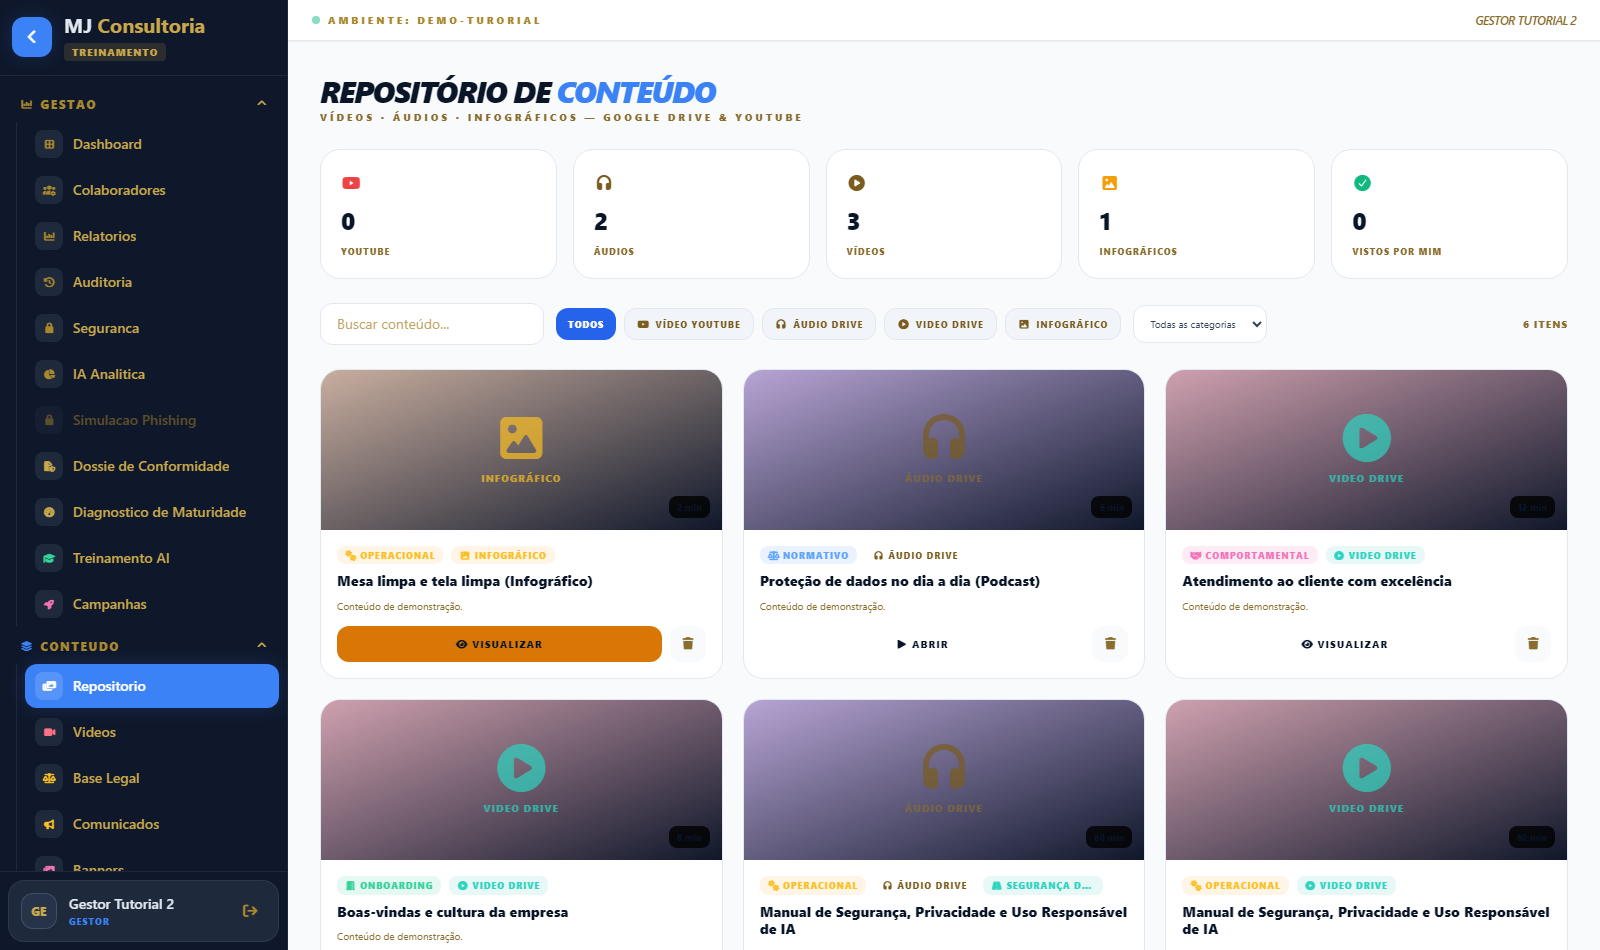
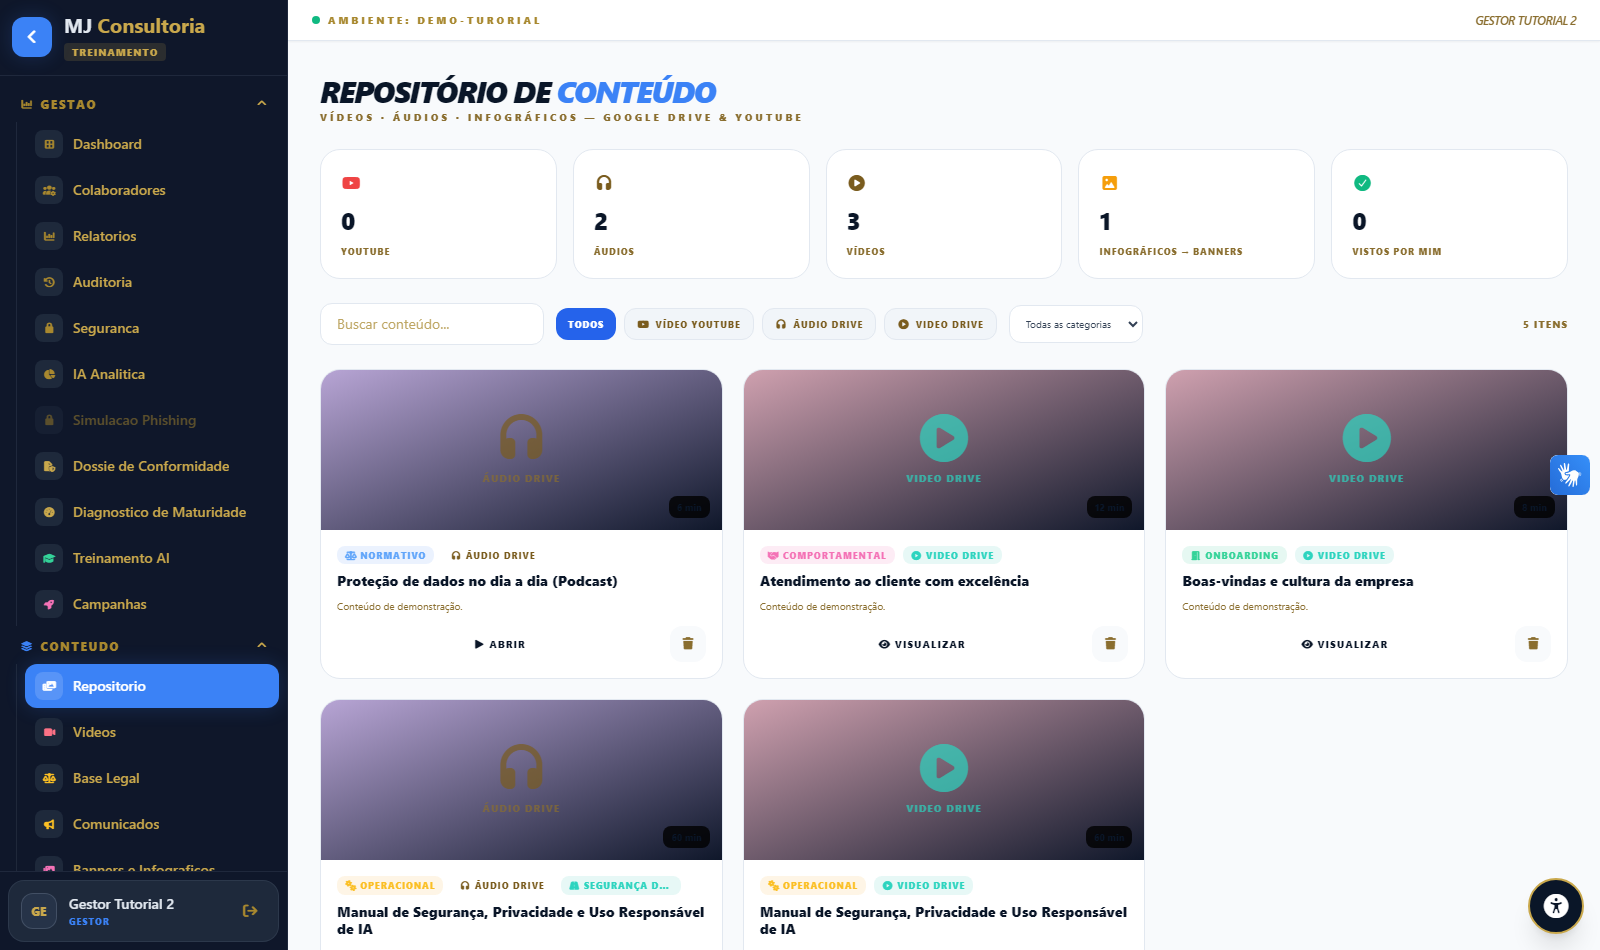
docs(tutorial): telas novas e textos atualizados
Capturas novas (cliente demo, dados ficticios): trilha em abas Ler/Ouvir/
Infografico, Repositorio sem infograficos, Banners e Infograficos, Campanhas
com publicacao, Meu Progresso e Acessibilidade. Textos de Trilhas,
Repositorio, Banners e Infograficos, Campanhas, Meu Progresso, Gestao de
Empresas (modo de visualizacao, Painel Master) e nova secao Acessibilidade.

diff --git a/frontend/src/features/Tutorial/TutorialView.tsx b/frontend/src/features/Tutorial/TutorialView.tsx
@@ -30,9 +30,11 @@ const SECTIONS: Section[] = [
     roles: ['SUPERADMIN'],
     steps: [
       { title: 'Ativar um novo cliente', desc: 'No formulário "Ativar Novo Cliente", escolha se é um cartório ou uma empresa, informe o nome e um ID do sistema (sem espaços, ex: empresa-bh-01). Esse ID vira o tenantId de todos os colaboradores daquele cliente e não pode ser alterado depois.' },
-      { title: 'Habilitar ou desligar módulos por cliente', desc: 'Em cada cliente listado em "Instâncias Ativas", clique nos chips de módulo (Auditoria, Segurança, IA Analítica, Phishing, Dossiê, Diagnóstico, Backup) para ligar/desligar. Quando desligado, o item aparece travado (cadeado) no menu daquele cliente.' },
+      { title: 'Habilitar ou desligar módulos por cliente', desc: 'Em cada cliente listado em "Instâncias Ativas", clique nos chips de módulo (Auditoria, Segurança, IA Analítica, Phishing, Dossiê, Diagnóstico, Backup, Acessibilidade) para ligar/desligar. Quando desligado, o item aparece travado (cadeado) no menu daquele cliente.' },
       { title: 'Ativar um período de demonstração', desc: 'Clique em "Ativar Demonstração", defina a quantidade de dias e confirme. Durante a demonstração só a Capacitação (Trilhas/Exames/Treinamentos) fica liberada — os demais módulos ficam travados até você "Encerrar Demonstração" (vira cliente pleno) ou o prazo expirar, quando o cliente é suspenso automaticamente e um e-mail é enviado ao gestor sugerindo a compra.' },
       { title: 'Acessar um cliente para conferir o que ele vê', desc: 'Clique em "Acessar" ao lado do cliente. Você entra no ambiente exatamente como aquele cliente enxerga — inclusive módulos travados — para validar a configuração. Use "Sair do cliente" no menu lateral para voltar ao modo global.' },
+      { title: 'Modo de visualização (apresentações)', desc: 'Dentro de um cliente, a equipe MJ vê trilhas, vídeos, áudios e infográficos exatamente como o colaborador vê, sem gravar nada: leitura, quiz e progresso não entram nos relatórios nem nos rankings do cliente. Nesse modo nenhum nome de outro cliente aparece na tela — o conteúdo criado ali fica só para o cliente visualizado; para distribuir a outros clientes, saia do modo de visualização.' },
+      { title: 'Painel Master', desc: 'A tela inicial do Super Admin reúne o acesso a qualquer cliente (lista de seleção, sem expor nomes na tela), atalhos para Gestão de Empresas, Treinamentos Oficiais, Relatório por Empresa e Atividades Master e uma apresentação da plataforma que pode ser mostrada a prospects.' },
       { title: 'Publicar treinamentos oficiais prontos', desc: 'Em "Treinamentos Oficiais" (menu Sistema Master), vincule um vídeo já cadastrado a cada tema pronto (Provimento 213/2026, Compliance, Provimento 149, LGPD) e clique em "Criar Trilha Oficial" — a trilha é publicada automaticamente para todos os clientes, com quiz gerado por IA.' },
       { title: 'Montar a equipe interna da MJ Consultoria', desc: 'Em "Equipe de Curadoria de Conteúdo" (nesta mesma tela), cadastre pessoas que só vão inserir/distribuir conteúdo (perfil Curador). Para alguém que vai te ajudar de forma mais ampla — colaboradores, relatórios, auditoria de qualquer cliente —, cadastre em "Colaboradores" escolhendo o perfil "Equipe MJ" (não pede cliente).' },
     ]
@@ -128,12 +130,13 @@ const SECTIONS: Section[] = [
     id: 'trails', icon: 'fa-road', title: 'Trilhas', subtitle: 'Trilhas de aprendizagem por perfil', image: '/tutorial/trails.png',
     steps: [
       { title: 'O que são Trilhas?', desc: 'Trilhas são sequências de conteúdos organizados por assunto e por perfil (ex.: atendimento, administrativo, financeiro, liderança) — servem para empresas de qualquer segmento e também para cartórios. Cada trilha guia o colaborador do básico ao avançado.' },
-      { title: 'Navegando em uma trilha', desc: 'Selecione uma trilha para ver os módulos disponíveis. Complete os módulos em sequência para liberar o próximo nível.' },
+      { title: 'Navegando em uma trilha', desc: 'Clique em "Iniciar" ou "Continuar trilha". A trilha abre em tela de curso: lista de módulos na lateral (com o que já foi concluído), barra de andamento no topo e botões Anterior/Próximo no fim de cada módulo. No celular, os módulos aparecem numa lista de seleção.' },
+      { title: 'Escolha como estudar: ler, ouvir, assistir ou infográfico', desc: 'Cada módulo mostra os formatos disponíveis para o tema — Ler (texto organizado em seções e listas), Ouvir (podcast), Assistir (vídeo) e Infográfico. O colaborador escolhe o que prefere, e a escolha vale para os próximos módulos. Vídeos e infográficos têm o botão "Tela cheia".' },
       { title: 'Progresso', desc: 'O progresso de cada trilha é salvo automaticamente. Acompanhe o avanço em "Meu Progresso" no menu CAPACITAÇÃO.' },
       { title: 'Trilhas modelo MJ Consultoria', desc: 'SUPERADMIN pode marcar uma trilha como "modelo oficial MJ Consultoria" (badge dourado) e distribuí-la para todos os clientes ou para uma lista específica.' },
       { title: 'Conteúdo liberado pela MJ Consultoria', desc: 'A equipe MJ Consultoria define, cliente a cliente, quais trilhas e materiais ficam disponíveis. Só aparece para a sua organização o que já foi liberado para ela — conteúdos exclusivos de outros clientes nunca são exibidos.' },
       { title: 'Assunto e setores', desc: 'Cada trilha tem um assunto (ex.: Segurança da Informação, LGPD e Privacidade, Ética e Conduta, Integração de Novos Colaboradores) — em "Minhas Trilhas" elas aparecem agrupadas por assunto. Opcionalmente, marque setores: a trilha passa a aparecer só para colaboradores desses setores.' },
-      { title: 'Vídeo, podcast e material de apoio', desc: 'Um módulo pode trazer vídeo ou podcast e, logo abaixo, um material de apoio (como um infográfico do mesmo tema). Ao final de cada módulo há uma avaliação de 7 questões geradas a partir do conteúdo.' },
+      { title: 'Montando os formatos de um módulo', desc: 'Ao criar ou editar a trilha, vincule a mídia principal do módulo e, em "Outros formatos do mesmo tema", adicione o podcast, o vídeo ou o infográfico correspondente do Repositório. Ao final de cada módulo há uma avaliação de 7 questões geradas a partir do conteúdo.' },
       { title: 'Instrutor, forma e carga horária', desc: 'Ao criar ou editar uma trilha, preencha o instrutor responsável, a forma de treinamento (EAD, presencial ou híbrida) e a carga horária em horas — esses dados alimentam o Resumo de Treinamentos e a carga horária por colaborador em Relatórios.' },
       { title: 'Fonte de conteúdo para Exames', desc: 'O texto dos módulos de cada trilha também é usado como fonte de conteúdo na tela de Exames — não é preciso duplicar o material lá.' },
       { title: 'Visibilidade', desc: 'Toda trilha pode ser publicada para "este cliente", "todos os clientes" ou uma lista de "clientes específicos" escolhida pelo SUPERADMIN.' },
@@ -148,11 +151,11 @@ const SECTIONS: Section[] = [
     ]
   },
   {
-    id: 'repositorio', icon: 'fa-photo-film', title: 'Repositório', subtitle: 'Vídeos, podcasts e infográficos de capacitação', image: '/tutorial/repositorio.png',
+    id: 'repositorio', icon: 'fa-photo-film', title: 'Repositório', subtitle: 'Vídeos e podcasts de capacitação', image: '/tutorial/repositorio.png',
     steps: [
-      { title: 'Tipos de conteúdo', desc: 'O repositório centraliza os materiais de capacitação da sua organização: vídeos, podcasts (áudios) e infográficos, organizados por categoria (Onboarding, Normativo, Técnico, Operacional, Comportamental).' },
-      { title: 'Reprodução protegida', desc: 'Os materiais abrem no player da própria plataforma, sem expor o link do arquivo e sem botão de download.' },
-      { title: 'Buscando conteúdo', desc: 'Use a busca e os filtros por tipo (vídeo, áudio, infográfico) e por categoria para localizar materiais.' },
+      { title: 'Tipos de conteúdo', desc: 'O repositório centraliza os vídeos e podcasts (áudios) de capacitação da sua organização, organizados por categoria (Onboarding, Normativo, Técnico, Operacional, Comportamental). Os infográficos ficam em "Banners e Infográficos" — o cartão de contagem leva direto para lá.' },
+      { title: 'Reprodução protegida', desc: 'Os materiais abrem no player da própria plataforma, sem expor o link do arquivo e sem botão de download. Os áudios tocam pelo servidor da plataforma, só para quem está logado e tem o conteúdo liberado.' },
+      { title: 'Buscando conteúdo', desc: 'Use a busca e os filtros por tipo (vídeo, áudio) e por categoria para localizar materiais.' },
       { title: 'Conclusão conta para a prova', desc: 'Um conteúdo só conta como visto quando fica aberto pelo tempo de duração cadastrado — é isso que libera a avaliação correspondente.' },
     ]
   },
@@ -173,9 +176,11 @@ const SECTIONS: Section[] = [
     ]
   },
   {
-    id: 'banners', icon: 'fa-images', title: 'Banners', subtitle: 'Materiais visuais de divulgação interna',
+    id: 'banners', icon: 'fa-images', title: 'Banners e Infográficos', subtitle: 'Infográficos dos treinamentos e materiais de divulgação', image: '/tutorial/banners.png',
     steps: [
-      { title: 'Publicando um banner', desc: 'Envie uma imagem ou link de campanha visual para divulgação interna (campanhas de segurança, datas comemorativas, avisos visuais).' },
+      { title: 'Infográficos', desc: 'Todos os infográficos liberados para a sua organização aparecem no topo da tela. Clique em "Visualizar" para abrir em tamanho grande, com o botão "Tela cheia". Os colaboradores acessam a mesma lista pelo item "Infográficos", na seção Capacitação, apenas para consulta.' },
+      { title: 'Publicando um material', desc: 'A gestão adiciona imagens, PDFs, apresentações ou links de divulgação interna (campanhas de segurança, datas comemorativas, avisos visuais), ou gera o texto de um banner com IA e imprime em PDF.' },
+      { title: 'Divulgando um infográfico novo', desc: 'Para chamar a atenção da equipe para um infográfico, publique um Comunicado com o link — se precisar de evidência, marque o aceite formal de leitura.' },
       { title: 'Visibilidade', desc: 'Assim como outros conteúdos, banners podem ser publicados para este cliente, todos os clientes ou uma lista de clientes específicos.' },
     ]
   },
@@ -212,18 +217,21 @@ const SECTIONS: Section[] = [
     ]
   },
   {
-    id: 'campanhas', icon: 'fa-rocket', title: 'Campanhas', subtitle: 'Campanhas motivacionais com IA',
+    id: 'campanhas', icon: 'fa-rocket', title: 'Campanhas', subtitle: 'Posts de comunicação com IA, publicação e histórico', image: '/tutorial/campanhas.png',
     steps: [
-      { title: 'Gerando uma campanha', desc: 'Descreva o objetivo (ex: incentivar a conclusão de uma trilha) e a IA gera sugestões de posts motivacionais para divulgação interna.' },
+      { title: 'Gerando uma campanha', desc: 'Escolha o tema (há sugestões prontas conforme o tipo da organização), os canais — LinkedIn, Instagram, WhatsApp, e-mail —, o tom e, se quiser, um contexto adicional. A IA gera um texto adequado para cada canal.' },
+      { title: 'Publicando', desc: 'O botão "Publicar" abre o WhatsApp, o LinkedIn ou o e-mail já com o texto pronto (no Instagram, o texto é copiado para você colar). Revise antes de enviar.' },
+      { title: 'Marcando como publicado', desc: 'Depois de publicar, clique em "Marcar como publicado": a data e quem publicou ficam registrados, e o histórico mostra cada campanha como Rascunho ou Publicada (ex.: 1/2 canais).' },
       { title: 'Uso recomendado', desc: 'Combine campanhas com Metas & Premiação para reforçar o engajamento da equipe em períodos de baixa adesão aos treinamentos.' },
     ]
   },
   {
-    id: 'progresso', icon: 'fa-chart-line', title: 'Meu Progresso', subtitle: 'Trilhas, exames e certificados pessoais',
+    id: 'progresso', icon: 'fa-chart-line', title: 'Meu Progresso', subtitle: 'Trilhas, conquistas e certificados pessoais', image: '/tutorial/progresso.png',
     steps: [
       { title: 'Visão pessoal', desc: 'Esta tela mostra exclusivamente o progresso do colaborador logado — trilhas iniciadas, exames realizados, certificados emitidos e pontuação acumulada.' },
       { title: 'Trilhas em andamento', desc: 'Veja o percentual de conclusão de cada trilha que você iniciou. Clique para retomar de onde parou.' },
-      { title: 'Histórico de notas', desc: 'Acompanhe a evolução das suas notas ao longo do tempo. O gráfico mostra a tendência de desempenho por módulo.' },
+      { title: 'Histórico de notas', desc: 'Acompanhe a evolução das suas notas ao longo do tempo na aba Histórico.' },
+      { title: 'Conquistas (badges)', desc: 'A aba Badges mostra as conquistas de bronze a platina — primeiro módulo concluído, aprovações, notas altas, trilhas completas e certificados. Só contam as trilhas liberadas para a sua organização.' },
     ]
   },
   {
@@ -240,6 +248,15 @@ const SECTIONS: Section[] = [
     steps: [
       { title: 'O que é exportado', desc: 'Gera uma exportação dos dados do seu cliente — colaboradores, trilhas, resultados de exames, certificados e comunicados — em formato para arquivamento externo.' },
       { title: 'Quando usar', desc: 'Recomendado antes de auditorias externas, migrações ou como cópia de segurança periódica independente do Firebase.' },
+    ]
+  },
+  {
+    id: 'acessibilidade', icon: 'fa-universal-access', title: 'Acessibilidade', subtitle: 'Libras (VLibras), tamanho do texto e alto contraste', image: '/tutorial/acessibilidade.png',
+    steps: [
+      { title: 'Recurso por organização', desc: 'A acessibilidade é habilitada pela MJ Consultoria para as organizações que contratam o recurso. Quando habilitada, aparecem o botão de acessibilidade (canto inferior direito) e o botão azul do VLibras (lateral direita da tela).' },
+      { title: 'Libras com o VLibras', desc: 'O VLibras, ferramenta gratuita do Governo Federal, traduz o texto da tela para Libras com um avatar. Clique no botão azul e depois no texto que deseja traduzir.' },
+      { title: 'Tamanho do texto, contraste e foco', desc: 'No botão de acessibilidade é possível aumentar o texto até 150%, ligar o alto contraste e destacar links e o foco do teclado. As preferências ficam salvas no navegador de cada pessoa.' },
+      { title: 'Na tela de entrada', desc: 'Os recursos aparecem também no login quando o navegador já foi usado por alguém da organização, ou quando o link de acesso termina com ?acessibilidade — esse link pode ser divulgado para a equipe.' },
     ]
   },
   {
